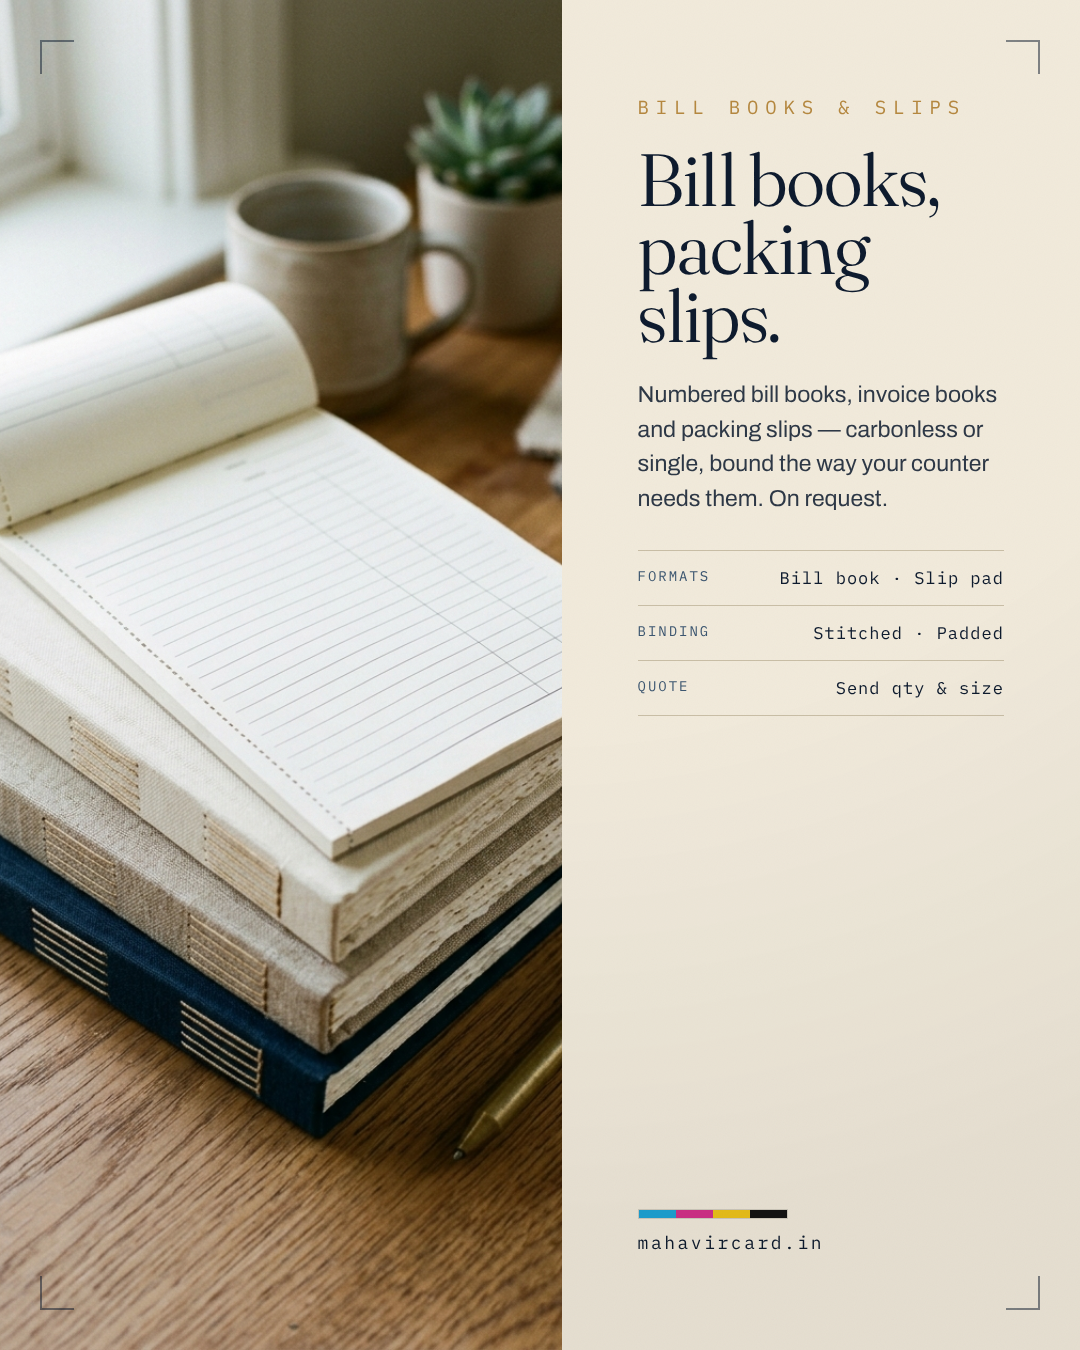
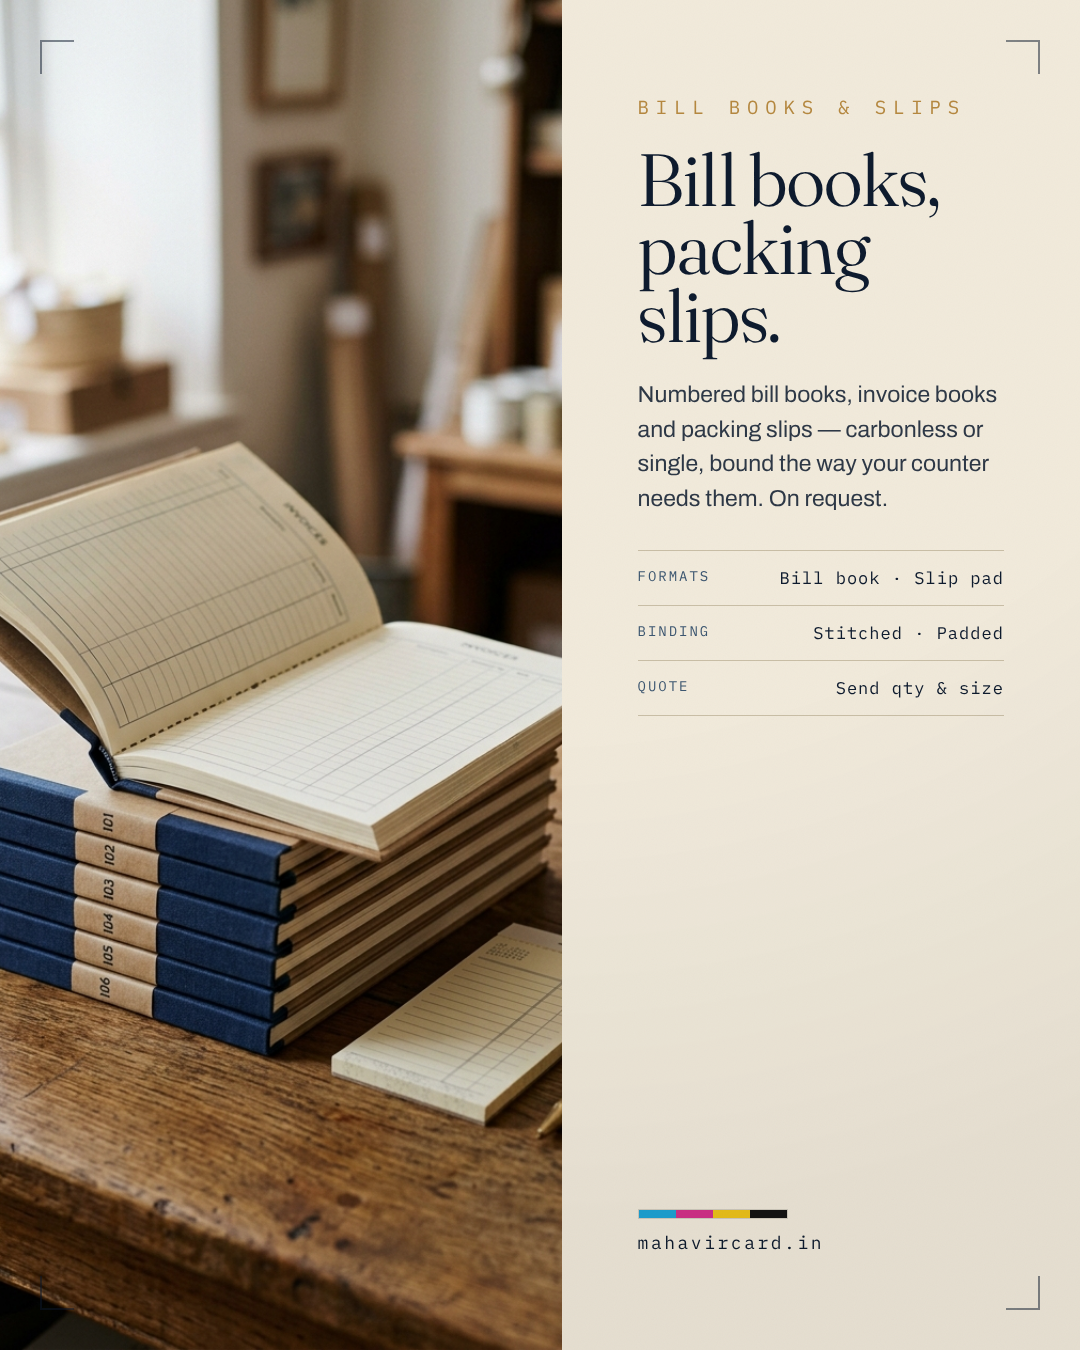
feat(marketing): refresh packaging set with more photorealistic visuals

diff --git a/instagramcontent-emergent/_SOURCE/html/11_story-02.html b/instagramcontent-emergent/_SOURCE/html/11_story-02.html
@@ -231,7 +231,7 @@
 .poll .opt.hot{background:var(--brass);color:#fff;border-color:var(--brass);}
 .qbox{margin-top:40px;padding:32px 30px;border:1.5px dashed var(--slate-soft);border-radius:16px;font-family:var(--grot);font-size:24px;color:var(--slate-soft);}
 </style></head><body style="margin:0"><div class="canvas story dark">
-    <div class="photo"><img src="../assets/gen-packing-slips.jpg" onerror="this.onerror=null;this.src='../assets/home-hero-printing.jpg'"></div><div class="scrim-b"></div><div class="crop tl"><i class="h"></i><i class="v"></i></div><div class="crop tr"><i class="h"></i><i class="v"></i></div><div class="crop bl"><i class="h"></i><i class="v"></i></div><div class="crop br"><i class="h"></i><i class="v"></i></div>
+    <div class="photo"><img src="../assets/gen-billbook2.jpg" onerror="this.onerror=null;this.src='../assets/home-hero-printing.jpg'"></div><div class="scrim-b"></div><div class="crop tl"><i class="h"></i><i class="v"></i></div><div class="crop tr"><i class="h"></i><i class="v"></i></div><div class="crop bl"><i class="h"></i><i class="v"></i></div><div class="crop br"><i class="h"></i><i class="v"></i></div>
     <div class="pad">
       <div class="top" style="display:flex;justify-content:space-between;align-items:flex-start"><div class="logomark"><img src="../assets/logo.jpeg" alt=""><div class="wm"><b>Mahavir Card</b><span>Commercial Print · Ahmedabad</span></div></div><div class="reg"><b></b></div></div>
       <div style="margin-top:auto">

diff --git a/instagramcontent-emergent/_SOURCE/html/11_story-01.html b/instagramcontent-emergent/_SOURCE/html/11_story-01.html
@@ -231,7 +231,7 @@
 .poll .opt.hot{background:var(--brass);color:#fff;border-color:var(--brass);}
 .qbox{margin-top:40px;padding:32px 30px;border:1.5px dashed var(--slate-soft);border-radius:16px;font-family:var(--grot);font-size:24px;color:var(--slate-soft);}
 </style></head><body style="margin:0"><div class="canvas story dark">
-    <div class="photo"><img src="../assets/gen-packaging.jpg" onerror="this.onerror=null;this.src='../assets/home-hero-printing.jpg'"></div><div class="scrim-b"></div><div class="crop tl"><i class="h"></i><i class="v"></i></div><div class="crop tr"><i class="h"></i><i class="v"></i></div><div class="crop bl"><i class="h"></i><i class="v"></i></div><div class="crop br"><i class="h"></i><i class="v"></i></div>
+    <div class="photo"><img src="../assets/gen-packaging2.jpg" onerror="this.onerror=null;this.src='../assets/home-hero-printing.jpg'"></div><div class="scrim-b"></div><div class="crop tl"><i class="h"></i><i class="v"></i></div><div class="crop tr"><i class="h"></i><i class="v"></i></div><div class="crop bl"><i class="h"></i><i class="v"></i></div><div class="crop br"><i class="h"></i><i class="v"></i></div>
     <div class="pad">
       <div class="top" style="display:flex;justify-content:space-between;align-items:flex-start"><div class="logomark"><img src="../assets/logo.jpeg" alt=""><div class="wm"><b>Mahavir Card</b><span>Commercial Print · Ahmedabad</span></div></div><div class="reg"><b></b></div></div>
       <div style="margin-top:auto">

diff --git a/instagramcontent-emergent/_SOURCE/html/11_post-01.html b/instagramcontent-emergent/_SOURCE/html/11_post-01.html
@@ -231,7 +231,7 @@
 .poll .opt.hot{background:var(--brass);color:#fff;border-color:var(--brass);}
 .qbox{margin-top:40px;padding:32px 30px;border:1.5px dashed var(--slate-soft);border-radius:16px;font-family:var(--grot);font-size:24px;color:var(--slate-soft);}
 </style></head><body style="margin:0"><div class="canvas dark L-hero">
-    <div class="photo"><img src="../assets/gen-packaging.jpg" onerror="this.onerror=null;this.src='../assets/home-hero-printing.jpg'"></div>
+    <div class="photo"><img src="../assets/gen-packaging2.jpg" onerror="this.onerror=null;this.src='../assets/home-hero-printing.jpg'"></div>
     <div class="scrim-full"></div><div class="crop tl"><i class="h"></i><i class="v"></i></div><div class="crop tr"><i class="h"></i><i class="v"></i></div><div class="crop bl"><i class="h"></i><i class="v"></i></div><div class="crop br"><i class="h"></i><i class="v"></i></div>
     <div class="pad">
       <div class="top"><div class="logomark"><img src="../assets/logo.jpeg" alt=""><div class="wm"><b>Mahavir Card</b><span>Commercial Print · Ahmedabad</span></div></div><div class="reg"><b></b></div></div>

diff --git a/instagramcontent-emergent/_SOURCE/html/11_post-02.html b/instagramcontent-emergent/_SOURCE/html/11_post-02.html
@@ -231,7 +231,7 @@
 .poll .opt.hot{background:var(--brass);color:#fff;border-color:var(--brass);}
 .qbox{margin-top:40px;padding:32px 30px;border:1.5px dashed var(--slate-soft);border-radius:16px;font-family:var(--grot);font-size:24px;color:var(--slate-soft);}
 </style></head><body style="margin:0"><div class="canvas L-split left">
-    <div class="imgcol"><img src="../assets/gen-billbook.jpg" onerror="this.onerror=null;this.src='../assets/home-hero-printing.jpg'"></div>
+    <div class="imgcol"><img src="../assets/gen-billbook2.jpg" onerror="this.onerror=null;this.src='../assets/home-hero-printing.jpg'"></div>
     <div class="txtcol">
       <div class="kicker plain" style="color:var(--brass)">Bill books & slips</div>
       <h2 class="display" style="font-size:74px">Bill books,<br>packing slips.</h2>
